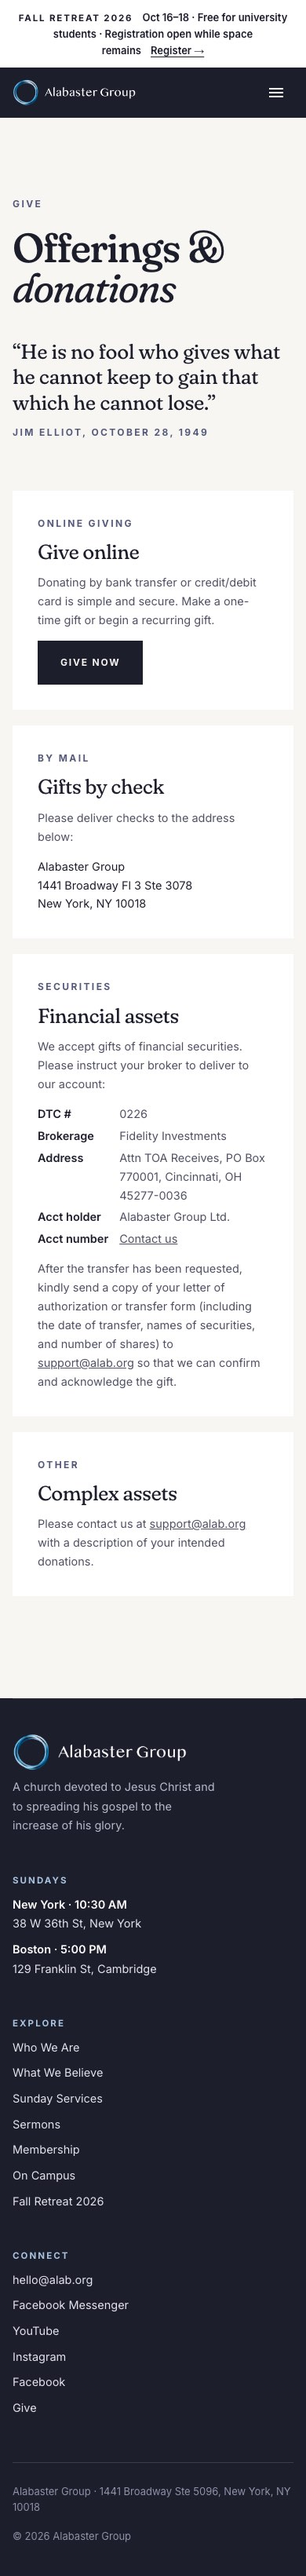
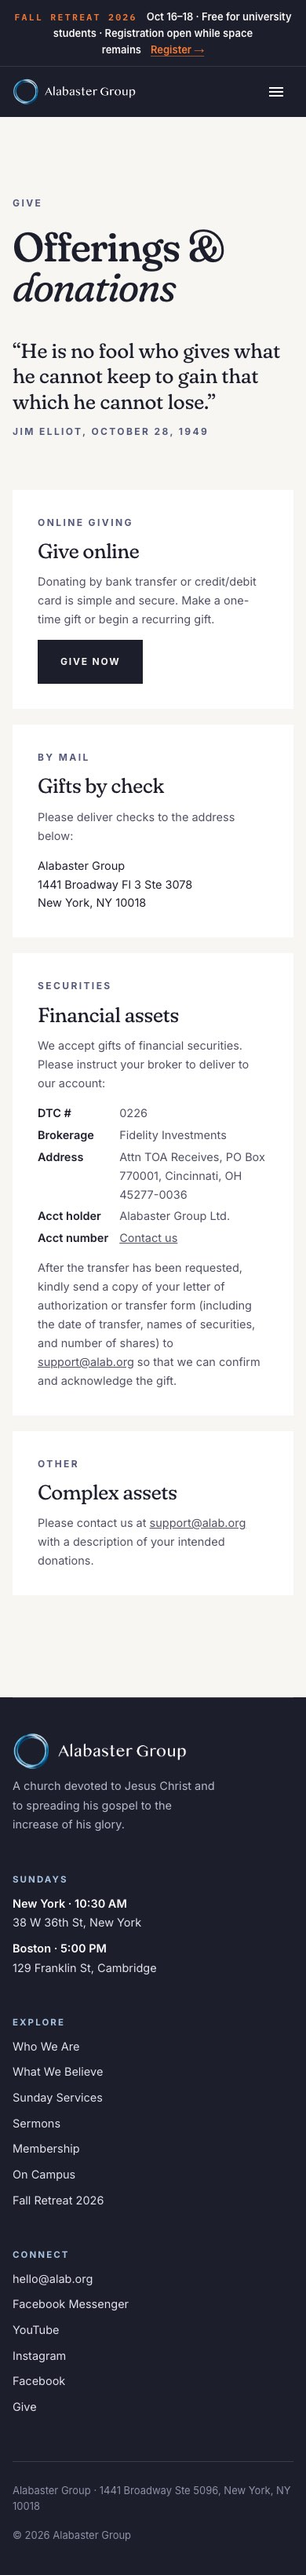
Announcement bar in Fall Retreat branding
Navy background, orange mono 'FALL RETREAT 2026' label and orange
Register link, matching the retreat flyer. Test plan screenshots refreshed.

diff --git a/public/css/site.css b/public/css/site.css
@@ -568,3 +568,10 @@ body, .prose { font-size: var(--fs-body); }
 .first-step__num { width: 44px; height: 44px; border: 1.5px solid var(--ink); display: flex; align-items: center; justify-content: center; font-family: var(--serif); font-size: 22px; margin-bottom: 6px; }
 .first-step p { font-size: var(--fs-small); line-height: 1.65; color: var(--muted); }
 .first-note { margin-top: 20px; display: flex; flex-wrap: wrap; gap: 6px 14px; padding: 20px 26px; background: var(--cream); font-size: var(--fs-small); line-height: 1.6; }
+
+/* Announcement bar in Fall Retreat branding (navy + orange, flyer fonts) */
+.announce { background: var(--ink); color: var(--on-dark); border-bottom: 1px solid rgba(247, 246, 243, 0.12); padding-block: 11px; }
+.announce strong { font-family: var(--mono); font-weight: 600; font-size: 11.5px; letter-spacing: 0.2em; color: var(--orange); }
+.announce span.u { color: var(--orange); text-decoration-color: rgba(244, 122, 54, 0.6); }
+.announce:hover { opacity: 1; }
+.announce:hover span.u { text-decoration-color: var(--orange); }

diff --git a/docs/test-plan/README.md b/docs/test-plan/README.md
@@ -1,6 +1,6 @@
 # Test plan
 
-Generated 2026-10-03 23:06 by `scripts/test_plan.py` from a fresh build.
+Generated 2026-10-04 09:50 by `scripts/test_plan.py` from a fresh build.
 
 ## Automated checks
 
